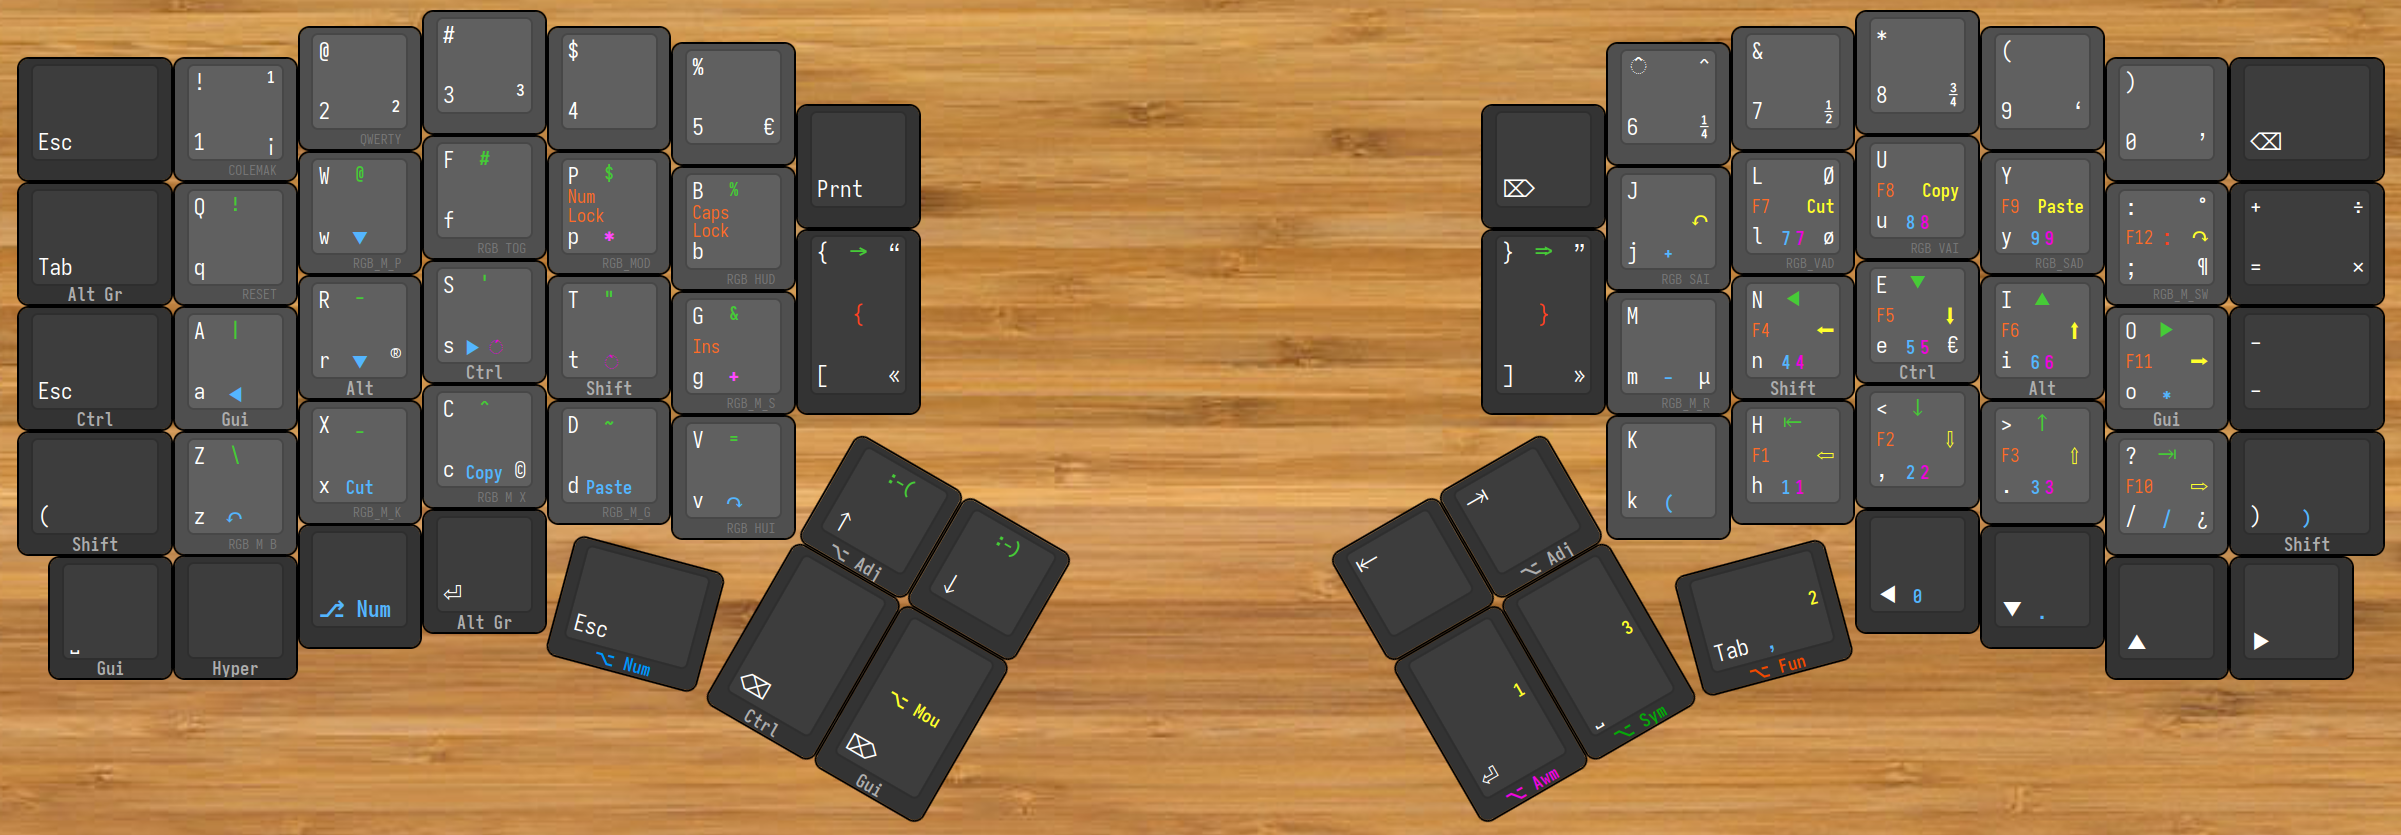
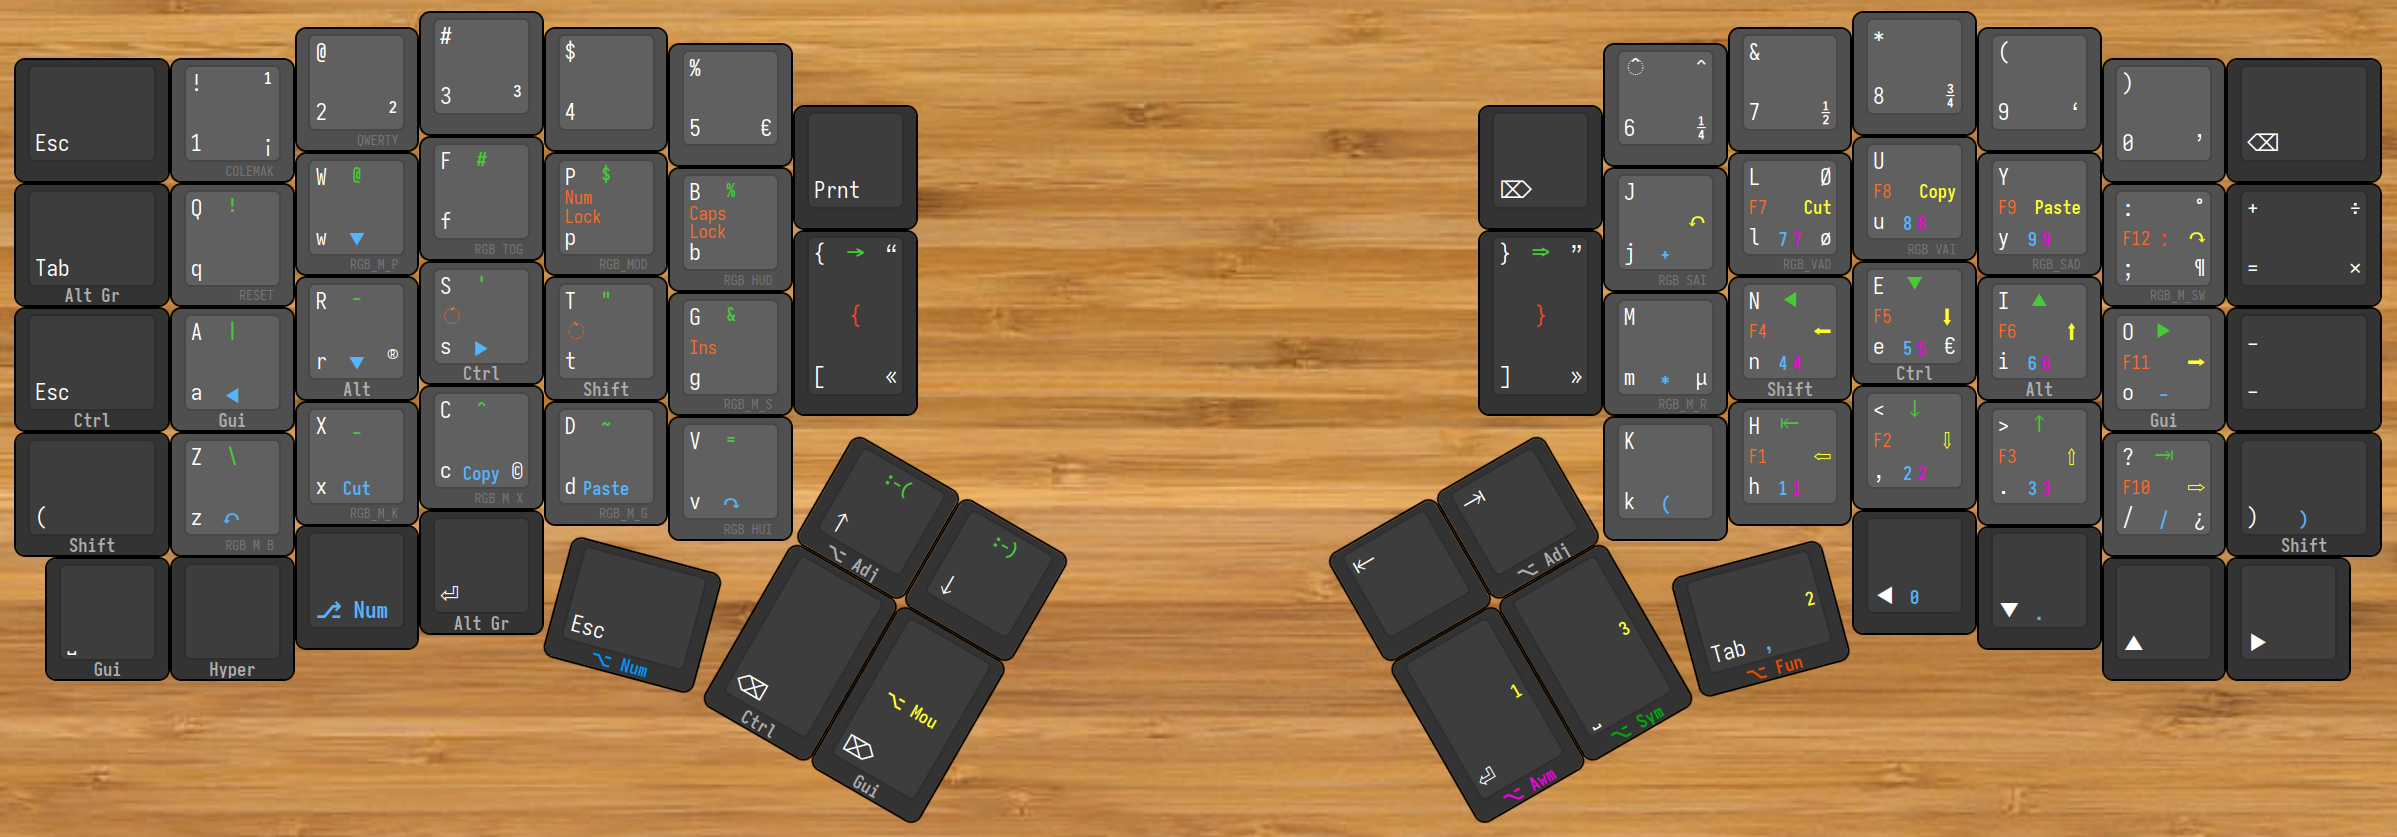
Misc updates
- moved accents dead keys on function layer
- moved * and + keys
- added alt gr on x/. keys

diff --git a/keymap.c b/keymap.c
@@ -45,8 +45,10 @@ enum tap_dance_codes {
 #define KC_GU_A LGUI_T(KC_A)          // A / Left Gui
 #define KC_CT_S LCTL_T(KC_S)          // R / Left Ctrl
 #define KC_AL_R LALT_T(KC_R)          // S / Left Alt
+#define KC_AL_X RALT_T(KC_X)          // X / Right Alt
 #define KC_GU_O RGUI_T(KC_O)          // O / Right Gui
 #define KC_AL_I LALT_T(KC_I)          // E / Left Alt (left alt because used as Emacs M- )
+#define KC_AL_DT RALT_T(KC_DOT)       // . / Right Alt
 #define KC_CT_E RCTL_T(KC_E)          // I / Right Ctrl
 #define KC_RS_N RSFT_T(KC_N)          // N / Right Shift
 #define KC_LS_T LSFT_T(KC_T)          // T / Left Shift
@@ -191,7 +193,7 @@ const uint16_t PROGMEM keymaps[][MATRIX_ROWS][MATRIX_COLS] = {
     //├────────┼────────┼────────┼────────┼────────┼────────┼────────┤                         ├────────┼────────┼────────┼────────┼────────┼────────┼────────┤
        KC_CESC ,KC_GU_A ,KC_AL_R ,KC_CT_S ,KC_LS_T ,KC_G    ,TD_LBRC ,                          TD_RBRC ,KC_M    ,KC_RS_N ,KC_CT_E ,KC_AL_I ,KC_GU_O ,KC_CMIN ,
     //├────────┼────────┼────────┼────────┼────────┼────────┼────────┼────────┐       ┌────────┼────────┼────────┼────────┼────────┼────────┼────────┼────────┤
-       KC_LSPO ,KC_Z    ,KC_X    ,KC_C    ,KC_D    ,KC_V    ,KC_ADPU ,KC_PGDN ,        KC_HOME ,KC_ADEN ,KC_K    ,KC_H    ,KC_COMM ,KC_DOT  ,KC_SLSH ,KC_RSPC ,
+       KC_LSPO ,KC_Z    ,KC_AR_X ,KC_C    ,KC_D    ,KC_V    ,KC_ADPU ,KC_PGDN ,        KC_HOME ,KC_ADEN ,KC_K    ,KC_H    ,KC_COMM ,KC_AR_DO,KC_SLSH ,KC_RSPC ,
     //├────────┼────────┼────────┼────────┼────┬───┴────┬───┼────────┼────────┤       ├────────┼────────┼───┬────┴───┬────┼────────┼────────┼────────┼────────┤
        KC_GUSP ,KC_HYPR ,TG_NUM  ,KC_RAEN ,     KC_NUES ,    KC_CBSP ,TD_DGUM ,        KC_AWEN ,KC_SYSP ,    KC_FUTA ,     KC_LEFT ,KC_DOWN ,KC_UP   ,KC_RGHT
     //└────────┴────────┴────────┴────────┘    └────────┘   └────────┴────────┘       └────────┴────────┘   └────────┘    └────────┴────────┴────────┴────────┘
@@ -219,7 +221,7 @@ const uint16_t PROGMEM keymaps[][MATRIX_ROWS][MATRIX_COLS] = {
     //├────────┼────────┼────────┼────────┼────────┼────────┼────────┐                         ┌────────┼────────┼────────┼────────┼────────┼────────┼────────┤
        _______ ,_______ ,KC_UP   ,_______ ,_______ ,_______ ,_______ ,                          _______ ,KC_PPLS ,KC_KP_7 ,KC_KP_8 ,KC_KP_9 ,_______ ,_______ ,
     //├────────┼────────┼────────┼────────┼────────┼────────┼────────┤                         ├────────┼────────┼────────┼────────┼────────┼────────┼────────┤
-       _______ ,KC_LEFT ,KC_DOWN ,KC_RIGHT,_______ ,_______ ,_______ ,                          _______ ,KC_PMNS ,KC_KP_4 ,KC_KP_5 ,KC_KP_6 ,KC_PAST ,_______ ,
+       _______ ,KC_LEFT ,KC_DOWN ,KC_RIGHT,_______ ,_______ ,_______ ,                          _______ ,KC_PAST ,KC_KP_4 ,KC_KP_5 ,KC_KP_6 ,KC_PMNS ,_______ ,
     //├────────┼────────┼────────┼────────┼────────┼────────┼────────┼────────┐       ┌────────┼────────┼────────┼────────┼────────┼────────┼────────┼────────┤
        _______ ,U_UND   ,U_CUT   ,U_CPY   ,U_PST   ,U_RDO   ,_______ ,_______ ,        _______ ,_______ ,S(KC_9) ,KC_KP_1 ,KC_KP_2 ,KC_KP_3 ,KC_PSLS ,S(KC_0) ,
     //├────────┼────────┼────────┼────────┼────┬───┴────┬───┼────────┼────────┤       ├────────┼────────┼───┬────┴───┬────┼────────┼────────┼────────┼────────┤
@@ -234,7 +236,7 @@ const uint16_t PROGMEM keymaps[][MATRIX_ROWS][MATRIX_COLS] = {
     //├────────┼────────┼────────┼────────┼────────┼────────┼────────┐                         ┌────────┼────────┼────────┼────────┼────────┼────────┼────────┤
        _______ ,_______ ,_______ ,_______ ,KC_NLCK ,KC_CAPS ,_______ ,                          _______ ,_______ ,KC_F7   ,KC_F8   ,KC_F9   ,KC_F12  ,_______ ,
     //├────────┼────────┼────────┼────────┼────────┼────────┼────────┤                         ├────────┼────────┼────────┼────────┼────────┼────────┼────────┤
-       _______ ,_______ ,_______ ,_______ ,_______ ,KC_INS  ,_______ ,                          _______ ,_______ ,KC_F4   ,KC_F5   ,KC_F6   ,KC_F11  ,_______ ,
+       _______ ,_______ ,_______ ,KC_QUOT ,KC_GRV  ,KC_INS  ,_______ ,                          _______ ,_______ ,KC_F4   ,KC_F5   ,KC_F6   ,KC_F11  ,_______ ,
     //├────────┼────────┼────────┼────────┼────────┼────────┼────────┼────────┐       ┌────────┼────────┼────────┼────────┼────────┼────────┼────────┼────────┤
        _______ ,_______ ,_______ ,_______ ,_______ ,_______ ,_______ ,_______ ,        _______ ,_______ ,_______ ,KC_F1   ,KC_F2   ,KC_F3   ,KC_F10  ,_______ ,
     //├────────┼────────┼────────┼────────┼────┬───┴────┬───┼────────┼────────┤       ├────────┼────────┼───┬────┴───┬────┼────────┼────────┼────────┼────────┤
@@ -247,9 +249,9 @@ const uint16_t PROGMEM keymaps[][MATRIX_ROWS][MATRIX_COLS] = {
     //┌────────┬────────┬────────┬────────┬────────┬────────┐                                           ┌────────┬────────┬────────┬────────┬────────┬────────┐
        _______ ,_______ ,_______ ,_______ ,_______ ,_______ ,                                            _______ ,_______ ,_______ ,_______ ,_______ ,_______ ,
     //├────────┼────────┼────────┼────────┼────────┼────────┼────────┐                         ┌────────┼────────┼────────┼────────┼────────┼────────┼────────┤
-       _______ ,_______ ,_______ ,_______ ,KC_PAST ,_______ ,_______ ,                          _______ ,_______ ,KC_AW7  ,KC_AW8  ,KC_AW9  ,_______ ,_______ ,
+       _______ ,_______ ,_______ ,_______ ,_______ ,_______ ,_______ ,                          _______ ,_______ ,KC_AW7  ,KC_AW8  ,KC_AW9  ,_______ ,_______ ,
     //├────────┼────────┼────────┼────────┼────────┼────────┼────────┤                         ├────────┼────────┼────────┼────────┼────────┼────────┼────────┤
-       _______ ,_______ ,_______ ,KC_QUOT ,KC_GRV  ,KC_PPLS ,_______ ,                          _______ ,_______ ,KC_AW4  ,KC_AW5  ,KC_AW6  ,_______ ,_______ ,
+       _______ ,_______ ,_______ ,_______ ,_______ ,_______ ,_______ ,                          _______ ,_______ ,KC_AW4  ,KC_AW5  ,KC_AW6  ,_______ ,_______ ,
     //├────────┼────────┼────────┼────────┼────────┼────────┼────────┼────────┐       ┌────────┼────────┼────────┼────────┼────────┼────────┼────────┼────────┤
        _______ ,_______ ,_______ ,_______ ,_______ ,_______ ,_______ ,_______ ,        _______ ,_______ ,_______ ,KC_AW1  ,KC_AW2  ,KC_AW3  ,_______ ,_______ ,
     //├────────┼────────┼────────┼────────┼────┬───┴────┬───┼────────┼────────┤       ├────────┼────────┼───┬────┴───┬────┼────────┼────────┼────────┼────────┤
